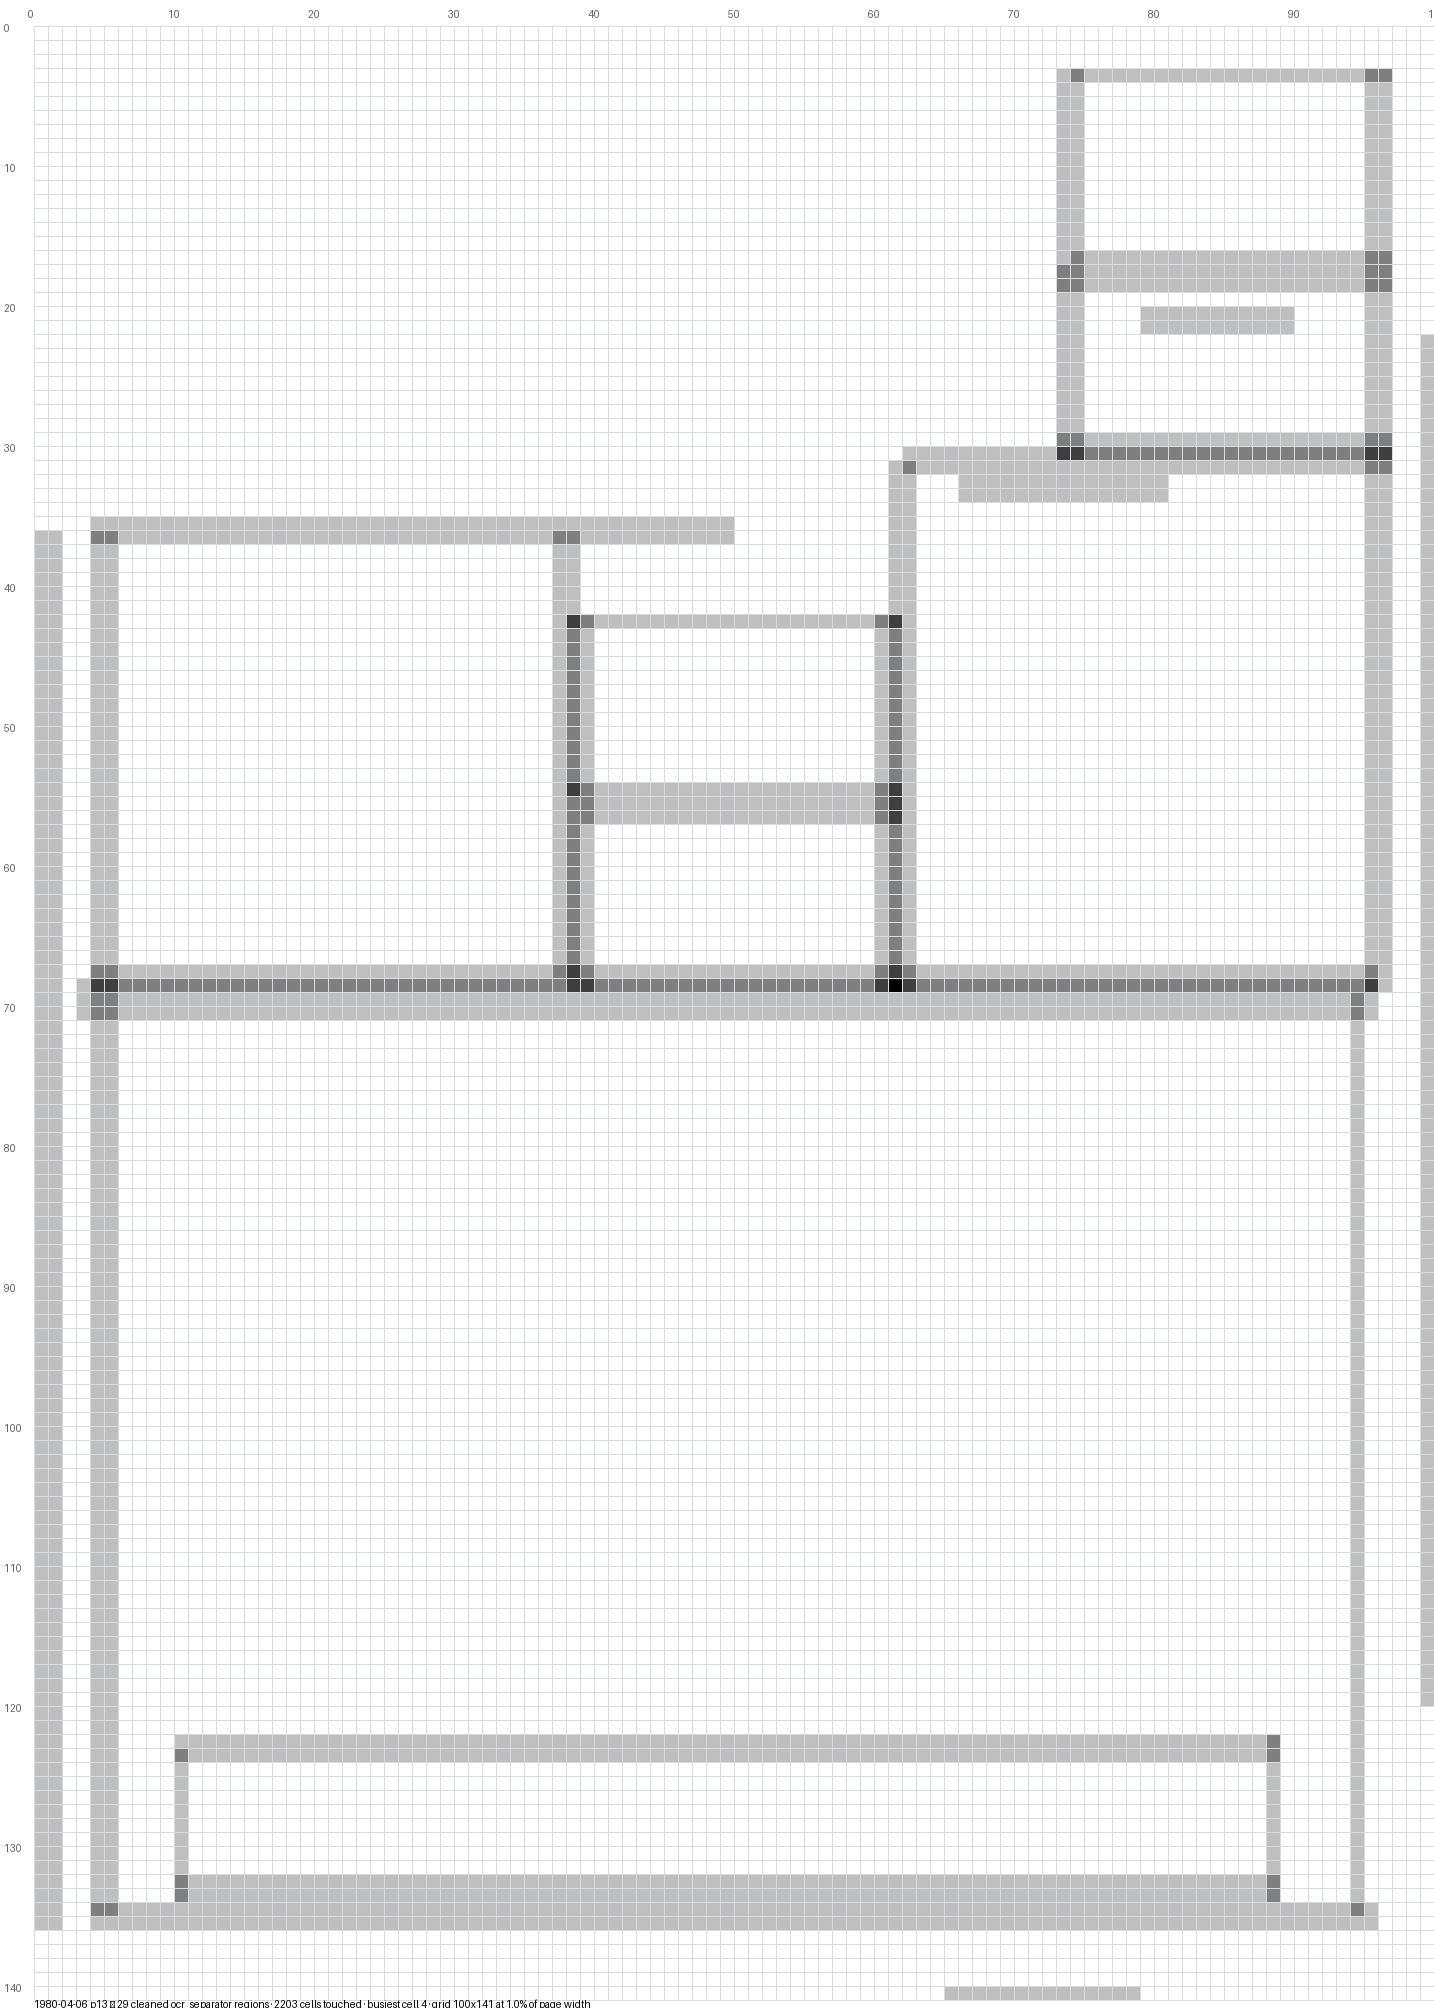
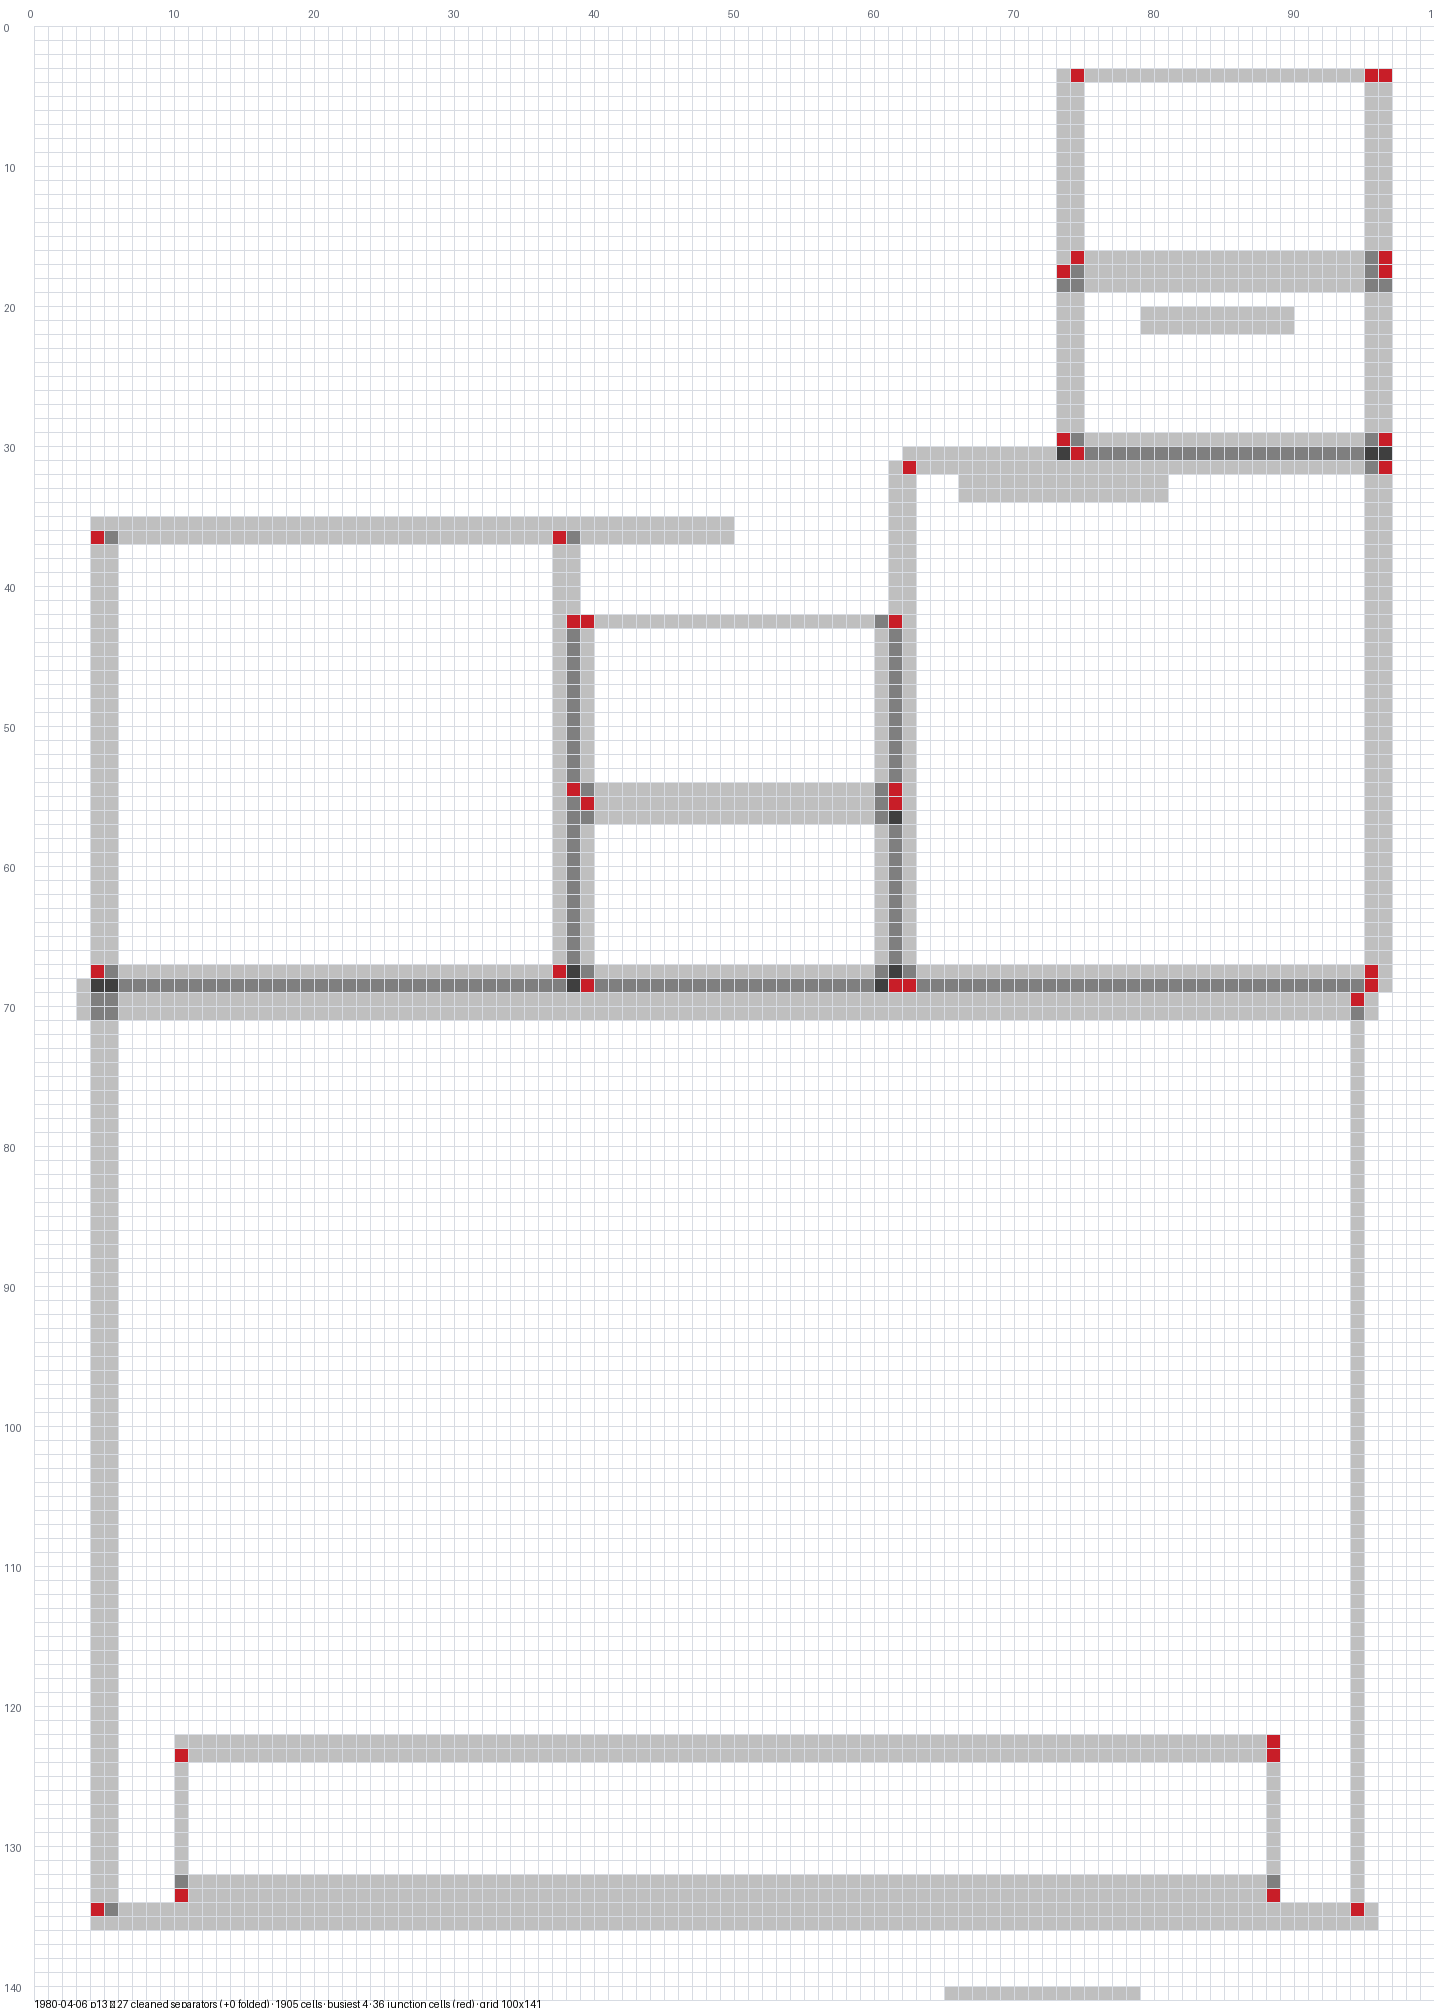
scaled/grid: drop shadow rules, fold contained duplicates, mark junctions red
Three changes, all in the grid experiment.

CONTENT-AREA FILTER. Separators lying entirely outside stage 1c's content
rectangle are dropped -- these are the digitisation shadows down the sheet
edge and binding gutter. The rectangle is padded by CONTENT_PAD_PCT first
so rules that RUN ALONG the content edge (a box's outer border, the rule
under a masthead) survive; only what sits beyond the type altogether goes.
On p13 this removes the full-height strip at x 0-1 and the stray pieces
beyond x 96 that dominated the previous render.

CONTAINED SEPARATORS. A separator wholly inside another is mostly the same
printed rule reported twice, and left alone it doubles the shading of every
cell it crosses -- pure noise in a density view. But it is NOT worthless,
so it is folded rather than discarded: the container keeps the geometry,
while the contained rule's ENDS still count as junctions. A long column
rule often runs past several stacked boxes, and the short rule inside it
marks where one of those boxes actually stops. That endpoint is real
evidence and dropping it would lose the useful half. 3 folded on p13.

JUNCTION CELLS, red. A cell is red when it holds the END of one separator
and ANY part of a different one -- end point or mid point. That is what a
corner is: a rule stopping where another passes through or stops too. 47
such cells on p13, and they land on the box corners: the ELECTRICAL
INSTALLATION and NOTICE corners at rows 4/17/30, the community calendar at
[…]

diff --git a/transcribe/scaled/experiments/separator_grid.py b/transcribe/scaled/experiments/separator_grid.py
@@ -41,6 +41,79 @@ CELL_PX = 14          # on-screen size of one cell
 STEP_DARK = 0.25      # each separator in a cell adds this much darkness
 GRID_LINE = (215, 219, 226)
 LABEL = (90, 96, 108)
+JUNCTION = (200, 30, 40)   # a separator END meeting another separator
+
+# Padding around the content area. Rules that RUN ALONG the content edge
+# (a box's outer border, the rule under a masthead) must survive, so the
+# box is grown before filtering; only separators entirely outside it are
+# dropped. Those are the digitisation shadows -- the sheet edge and the
+# binding gutter.
+CONTENT_PAD_PCT = 2.0
+
+
+def _within_content(conn, page_id: str, regions: list[dict]) -> list[dict]:
+    """Drop separators lying entirely outside the padded content area.
+
+    The content rectangle comes from stage 1c, which is the same
+    measurement the column fit is anchored to. Padding it by
+    CONTENT_PAD_PCT keeps rules that run ALONG the content edge -- a box's
+    outer border, the rule under a masthead -- and removes only what sits
+    beyond the type altogether: the sheet edge and the binding shadow that
+    digitisation leaves down the margins.
+    """
+    r = conn.execute(
+        "SELECT content_left_pct l, content_right_pct r, content_top_pct t, "
+        "content_bottom_pct b FROM pages WHERE id=?", (page_id,)).fetchone()
+    if not r or r["l"] is None:
+        return regions
+    L = r["l"] - CONTENT_PAD_PCT
+    R = r["r"] + CONTENT_PAD_PCT
+    T = r["t"] - CONTENT_PAD_PCT
+    B = r["b"] + CONTENT_PAD_PCT
+    return [x for x in regions
+            if x["R"] >= L and x["L"] <= R and x["B"] >= T and x["T"] <= B]
+
+
+def _fold_contained(regions: list[dict]) -> tuple[list[dict], list[dict]]:
+    """Fold a separator wholly inside another into its container.
+
+    These are mostly the same printed rule reported twice, and left alone
+    they double the shading of every cell they cross -- pure noise in a
+    density view.
+
+    But they are NOT worthless, and discarding them outright would throw
+    away the useful part: the contained rule's ENDS are real evidence.
+    A long column rule often runs past several stacked boxes, and the
+    short rule inside it marks where one of those boxes actually stops.
+    So the geometry of the container is kept, and the contained rule is
+    returned separately so its endpoints still count as junctions.
+    """
+    keep, folded = [], []
+    for i, a in enumerate(regions):
+        inside = False
+        for j, b in enumerate(regions):
+            if i == j:
+                continue
+            if (a["L"] >= b["L"] - 0.05 and a["R"] <= b["R"] + 0.05
+                    and a["T"] >= b["T"] - 0.05 and a["B"] <= b["B"] + 0.05):
+                # Identical pair: keep exactly one of them.
+                same = (abs(a["L"] - b["L"]) < 0.05 and abs(a["R"] - b["R"]) < 0.05
+                        and abs(a["T"] - b["T"]) < 0.05 and abs(a["B"] - b["B"]) < 0.05)
+                if same and j > i:
+                    continue
+                inside = True
+                break
+        (folded if inside else keep).append(a)
+    return keep, folded
+
+
+def _ends(r: dict) -> list[tuple]:
+    """The two end points of a separator."""
+    if (r["R"] - r["L"]) >= (r["B"] - r["T"]):      # horizontal
+        y = (r["T"] + r["B"]) / 2
+        return [(r["L"], y), (r["R"], y)]
+    x = (r["L"] + r["R"]) / 2
+    return [(x, r["T"]), (x, r["B"])]
 
 
 def build(conn, page_id: str, clean: bool = False):
@@ -63,22 +136,47 @@ def build(conn, page_id: str, clean: bool = False):
                    for r in _boxes._rules(conn, page_id, o)]
     else:
         regions = [dict(r) for r in conn.execute(
-            "SELECT left_pct L, top_pct T, right_pct R, bottom_pct B "
-            "FROM page_hocr_regions WHERE page_id=? "
+            "SELECT left_pct L, top_pct T, right_pct R, bottom_pct B, "
+            "orientation FROM page_hocr_regions WHERE page_id=? "
             "AND region_class='ocr_separator'", (page_id,))]
 
-    for r in regions:
+    regions = _within_content(conn, page_id, regions)
+    regions, swallowed = _fold_contained(regions)
+
+    def cells_of(r):
         c0 = max(0, min(n_cols - 1, int(r["L"] / CELL_PCT)))
         c1 = max(0, min(n_cols - 1, int(r["R"] / CELL_PCT)))
         r0 = max(0, min(n_rows - 1, int(r["T"] / cell_h_pct)))
         r1 = max(0, min(n_rows - 1, int(r["B"] / cell_h_pct)))
-        for y in range(r0, r1 + 1):
-            for x in range(c0, c1 + 1):
-                counts[y][x] += 1
-    return counts, n_cols, n_rows, len(regions)
+        return [(y, x) for y in range(r0, r1 + 1) for x in range(c0, c1 + 1)]
+
+    occupied = {}                       # cell -> set of region indices
+    for i, r in enumerate(regions):
+        for cell in cells_of(r):
+            counts[cell[0]][cell[1]] += 1
+            occupied.setdefault(cell, set()).add(i)
+
+    # Folded-away duplicates still occupy cells for junction purposes --
+    # their ends are real -- but do not darken them.
+    for k, r in enumerate(swallowed, start=len(regions)):
+        for cell in cells_of(r):
+            occupied.setdefault(cell, set()).add(k)
+
+    # A junction is a cell holding the END of one separator and ANY part
+    # of a different one. That is what a corner looks like: a rule stops
+    # where another passes through or stops too.
+    junction = [[False] * n_cols for _ in range(n_rows)]
+    for i, r in enumerate(list(regions) + list(swallowed)):
+        for (ex, ey) in _ends(r):
+            cx = max(0, min(n_cols - 1, int(ex / CELL_PCT)))
+            cy = max(0, min(n_rows - 1, int(ey / cell_h_pct)))
+            others = occupied.get((cy, cx), set()) - {i}
+            if others:
+                junction[cy][cx] = True
+    return counts, junction, n_cols, n_rows, len(regions), len(swallowed)
 
 
-def render(counts, n_cols, n_rows, title: str, out_path: str) -> str:
+def render(counts, junction, n_cols, n_rows, title: str, out_path: str) -> str:
     pad_l, pad_t, pad_b = 34, 26, 8
     W = pad_l + n_cols * CELL_PX
     H = pad_t + n_rows * CELL_PX + pad_b
@@ -89,7 +187,10 @@ def render(counts, n_cols, n_rows, title: str, out_path: str) -> str:
         for x in range(n_cols):
             n = counts[y][x]
             x0, y0 = pad_l + x * CELL_PX, pad_t + y * CELL_PX
-            if n:
+            if junction[y][x]:
+                d.rectangle([x0, y0, x0 + CELL_PX, y0 + CELL_PX],
+                            fill=JUNCTION)
+            elif n:
                 v = int(255 * max(0.0, 1.0 - STEP_DARK * n))
                 d.rectangle([x0, y0, x0 + CELL_PX, y0 + CELL_PX],
                             fill=(v, v, v))
@@ -117,18 +218,20 @@ def _cmd(args):
         if not row:
             print("no such page")
             return
-        counts, nc, nr, n = build(conn, row["id"], args.clean)
+        counts, junc, nc, nr, n, folded = build(conn, row["id"], args.clean)
         busiest = max(max(r) for r in counts)
         cells = sum(1 for r in counts for v in r if v)
+        njunc = sum(1 for r in junc for v in r if v)
         kind = "cleaned" if args.clean else "raw"
-        title = (f"{args.date} p{args.page} — {n} {kind} ocr_separator regions "
-                 f"· {cells} cells touched · busiest cell {busiest} "
-                 f"· grid {nc}x{nr} at {CELL_PCT}% of page width")
+        title = (f"{args.date} p{args.page} — {n} {kind} separators "
+                 f"(+{folded} folded) · {cells} cells · busiest {busiest} "
+                 f"· {njunc} junction cells (red) · grid {nc}x{nr}")
         suffix = "_clean" if args.clean else ""
         out = os.path.join(OUT_DIR, args.date,
                            f"p{args.page}_sepgrid{suffix}.png")
-        print(" ", render(counts, nc, nr, title, out))
-        print(f"  {n} regions, {cells} cells touched, busiest cell {busiest}")
+        print(" ", render(counts, junc, nc, nr, title, out))
+        print(f"  {n} regions kept, {folded} folded as contained, "
+              f"{cells} cells touched, busiest {busiest}, {njunc} junctions")
     finally:
         conn.close()
 
